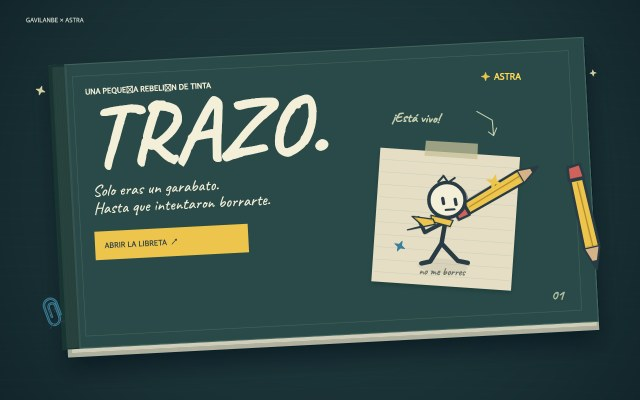
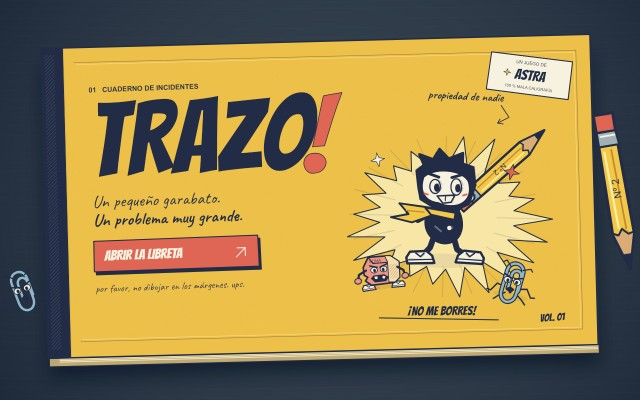
Refresh TRAZO cartridge art for the notebook comic redesign

diff --git a/data.js b/data.js
@@ -777,7 +777,7 @@ const GAMES = [
     "type": "web",
     "play": "https://gavilanbe.github.io/trazo/",
     "repo": "https://github.com/gavilanbe/trazo",
-    "thumb": "thumbs/trazo.jpg",
+    "thumb": "thumbs/trazo.jpg?v=2",
     "wip": false,
     "new": true,
     "kind": "juego",
